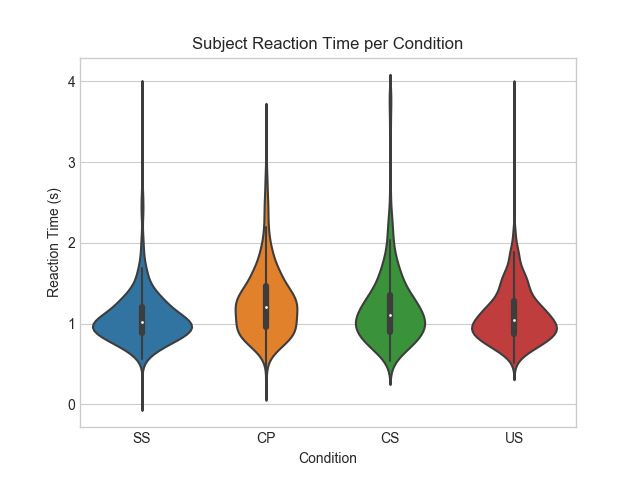
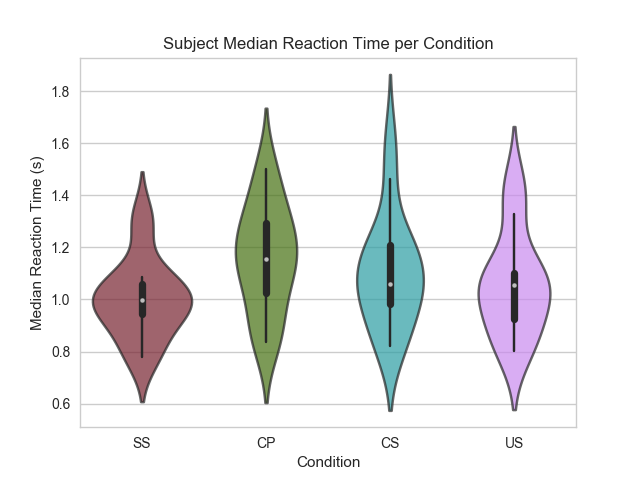
switch colour palette to cubehelix

diff --git a/src/visualisation/healthy_plots.py b/src/visualisation/healthy_plots.py
@@ -10,13 +10,18 @@ from scipy import mean, median
 STIMULI = ['SS', 'CP', 'CS', 'US']
 STIMULI_PAIRS = ['SS_CP', 'SS_CS', 'SS_US']
 TRIALS_PER_STIM = 30
+
+sns.set()
+palette = sns.cubehelix_palette(6, start=3, rot=1.9, gamma=.8, hue=2, reverse=True)
 sns.set_style("whitegrid")
+sns.set_palette(palette)
 
 
 def plot_rts(derivative_path, out_path=None, plot_medians=False):
     subjects = pd.read_csv(derivative_path)
-    stim_rts = subjects.groupby(['stim', 'subj_idx'])['rt'].median() if plot_medians \
-        else subjects.groupby(['stim'])['rt']
+    accurate_rts = subjects[pd.to_numeric(subjects.response, errors='coerce') > 0]
+    stim_rts = accurate_rts.groupby(['stim', 'subj_idx'])['rt'].median() if plot_medians \
+            else accurate_rts.groupby(['stim', 'subj_idx'])['rt'] 
 
     plt.figure()
     plot = sns.violinplot(
@@ -28,6 +33,7 @@ def plot_rts(derivative_path, out_path=None, plot_medians=False):
     plot.set_xlabel("Condition")
     y_label = "Median Reaction Time (s)" if plot_medians else "Reaction Time (s)"
     plot.set_ylabel(y_label)
+    plt.setp(plot.collections, alpha=.7)
 
     if out_path:
         title = "Subject Median Reaction Time per Condition" if plot_medians \
@@ -46,7 +52,8 @@ def plot_accuracy(derivative_path, out_path=None):
     plt.figure()
     plot = sns.boxplot(
         data=[stim_accs[stim] for stim in STIMULI],
-        showfliers=False
+        showfliers=False,
+        boxprops= dict(alpha=.7)
     )
     sns.swarmplot(
         data=[stim_accs[stim] for stim in STIMULI],
@@ -56,7 +63,7 @@ def plot_accuracy(derivative_path, out_path=None):
     plot.set_xticklabels(STIMULI)
     plot.set_xlabel("Condition")
     plot.set_ylabel("Accuracy Score")
-    plot.set_ylim(0, 1.01)
+    plot.set_ylim(0.8, 1.01)
 
     if out_path:
         plot.set_title("Subject Accuracy Score per Condition")
@@ -71,11 +78,12 @@ def plot_dprime(processed_path, out_path=None):
     plt.figure()
     plot = sns.violinplot(
         data=[subjects_dprimes[pair] for pair in STIMULI_PAIRS],
-        palette="muted"
+        palette=palette[1:]
     )
     plot.set_xticklabels(STIMULI_PAIRS)
     plot.set_xlabel("Condition Pairs")
     plot.set_ylabel("d'")
+    plt.setp(plot.collections, alpha=.7)
 
     if out_path:
         plot.set_title("Subject Incongruence (d') Score")
@@ -94,6 +102,7 @@ def plot_drift_rate(processed_path, out_path=None):
     plot.set_xticklabels(STIMULI)
     plot.set_xlabel("Conditions")
     plot.set_ylabel("Drift Rate")
+    plt.setp(plot.collections, alpha=.7)
 
     if out_path:
         plot.set_title("Subject Drift Rate per Condition")
@@ -108,6 +117,7 @@ def plot_threshold(processed_path, out_path=None):
     plt.figure()
     plot = sns.distplot(
         subjects_threshold,
+        color='steelblue',
         rug=True
     )
     plot.set_ylabel("Density")
@@ -126,6 +136,7 @@ def plot_bias(processed_path, out_path=None):
     plt.figure()
     plot = sns.distplot(
         subjects_bias,
+        color='steelblue',
         rug=True
     )
     plot.set_ylabel("Density")
@@ -144,6 +155,7 @@ def plot_nondec_time(processed_path, out_path=None):
     plt.figure()
     plot = sns.distplot(
         subjects_nondec,
+        color='steelblue',
         rug=True
     )
     plot.set_ylabel("Density")

diff --git a/src/visualisation/make_figures.py b/src/visualisation/make_figures.py
@@ -15,7 +15,7 @@ if __name__ == '__main__':
     healthy_threshold = 'data/processed/healthy/healthy_threshold.csv'
     healthy_nondec = 'data/processed/healthy/healthy_nondec.csv'
 
-    healthy_plots.plot_rts(healthy_deriv, out_path=out_dir + 'healthy_rts')
+    healthy_plots.plot_rts(healthy_deriv, out_path=out_dir + 'healthy_rts', plot_medians=True)
     healthy_plots.plot_accuracy(healthy_deriv, out_path=out_dir + 'healthy_accs')
     healthy_plots.plot_dprime(healthy_dprimes, out_path=out_dir + 'healthy_dprimes')
     healthy_plots.plot_drift_rate(healthy_drifts, out_path=out_dir + 'healthy_drifts')
